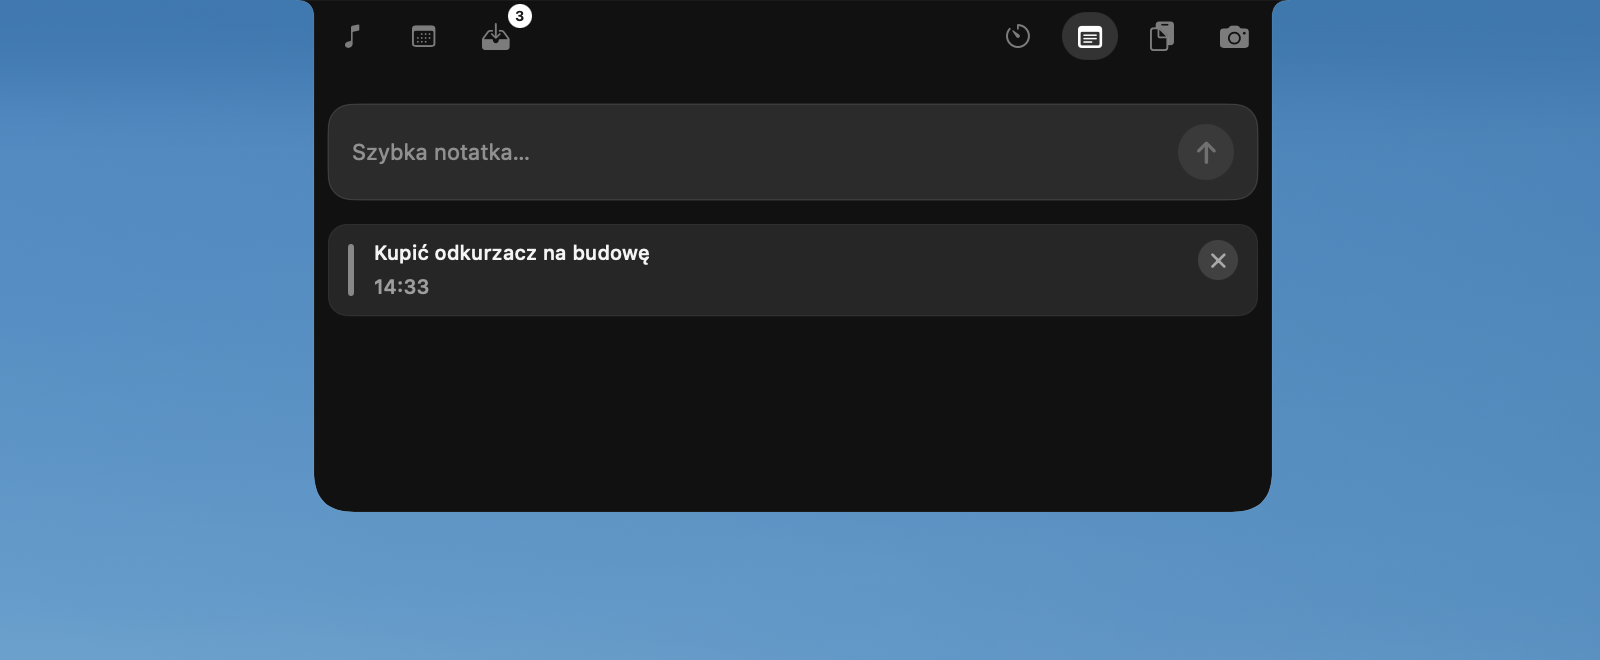
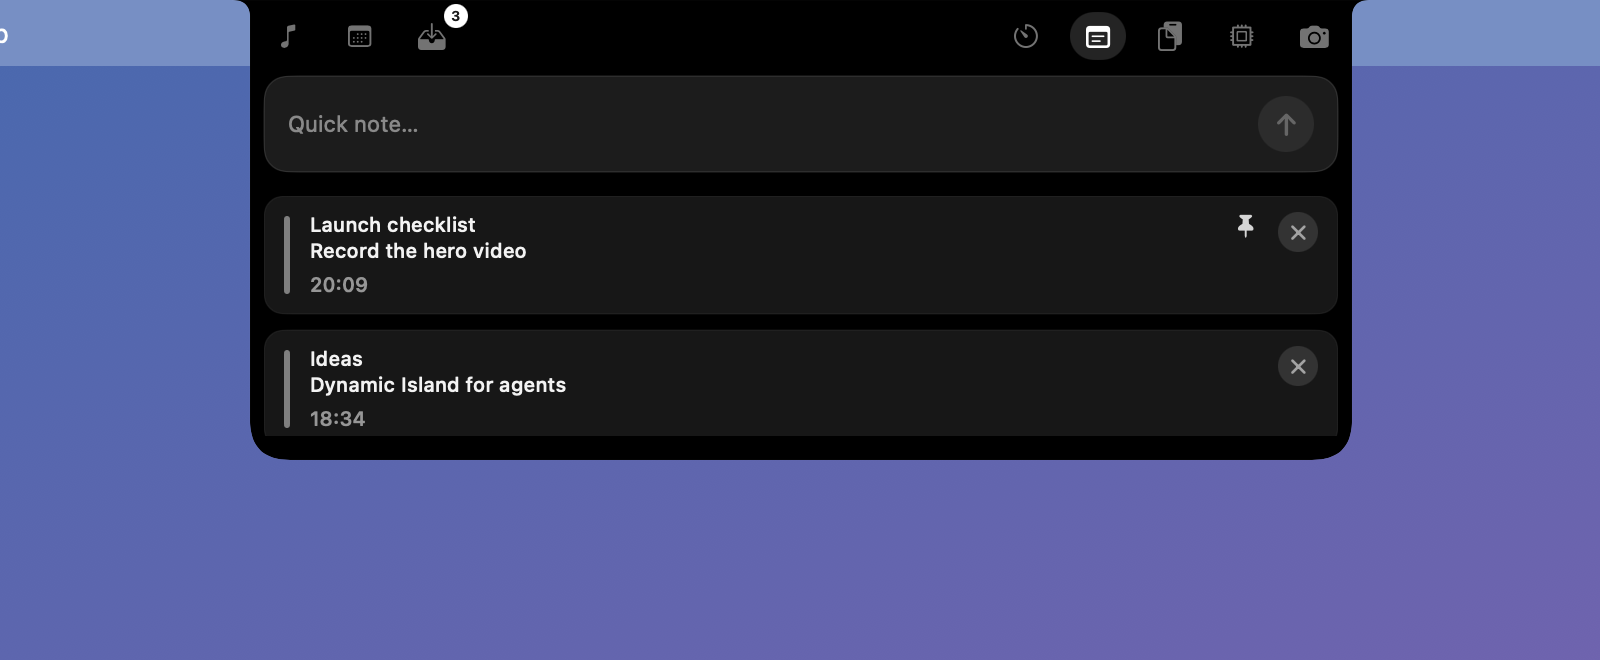
Show demo screenshots in each page's language and add Homebrew install.
The gallery used Polish screenshots on the English page and showed real
tracks, events, notes and clipboard entries. Both pages now use screenshots
of the app's demo mode in their own language, and the Mirror slide (which
would show a real camera) is replaced by the Agents usage view. Homebrew
install via the Tymcio/homebrew-tap tap is listed next to the download and
in the README; the cask passes brew audit.

diff --git a/website/pl/index.html b/website/pl/index.html
@@ -18,7 +18,7 @@
   <meta property="og:image" content="https://notchflow.eu/assets/og-image.png" />
   <meta name="twitter:card" content="summary_large_image" />
   <link rel="preload" as="image" href="../assets/hero-macbook.png" />
-  <link rel="stylesheet" href="../styles.css?v=20261110-video" />
+  <link rel="stylesheet" href="../styles.css?v=20261110-hud" />
   <script src="../consent-init.js?v=20261023-redesign"></script>
   <script src="../analytics-config.js?v=20261023-redesign"></script>
   <script src="../theme-init.js?v=20261023-redesign"></script>
@@ -284,7 +284,7 @@
             </ul>
           </div>
           <figure class="media-frame">
-            <img src="../assets/screenshots/01-music.png" width="1600" height="660" alt="Sterowanie muzyką NotchFlow rozwinięte z notcha MacBooka" loading="lazy" decoding="async" />
+            <img src="../assets/screenshots/pl/01-music.png" width="1600" height="660" alt="Sterowanie muzyką NotchFlow rozwinięte z notcha MacBooka" loading="lazy" decoding="async" />
           </figure>
         </article>
 
@@ -299,7 +299,7 @@
             </ul>
           </div>
           <figure class="media-frame">
-            <img src="../assets/screenshots/03-shelf.png" width="1600" height="660" alt="Półka plików NotchFlow z przypiętymi elementami w notchu" loading="lazy" decoding="async" />
+            <img src="../assets/screenshots/pl/03-shelf.png" width="1600" height="660" alt="Półka plików NotchFlow z przypiętymi elementami w notchu" loading="lazy" decoding="async" />
           </figure>
         </article>
 
@@ -319,60 +319,60 @@
               <p class="shot-index">01</p>
               <h3>Muzyka</h3>
               <p>Okładka, postęp i sterowanie odtwarzaniem mieszczą się w wyspie.</p>
-              <img class="shot-photo" src="../assets/screenshots/01-music.png" width="1600" height="660" alt="Moduł muzyki w NotchFlow" loading="lazy" decoding="async" />
+              <img class="shot-photo" src="../assets/screenshots/pl/01-music.png" width="1600" height="660" alt="Moduł muzyki w NotchFlow" loading="lazy" decoding="async" />
             </article>
             <article class="shot" data-shot="calendar">
               <p class="shot-index">02</p>
               <h3>Kalendarz</h3>
               <p>Siatka miesiąca i najbliższe wydarzenia, bez otwierania Kalendarza.</p>
-              <img class="shot-photo" src="../assets/screenshots/02-calendar.png" width="1600" height="660" alt="Moduł kalendarza w NotchFlow" loading="lazy" decoding="async" />
+              <img class="shot-photo" src="../assets/screenshots/pl/02-calendar.png" width="1600" height="660" alt="Moduł kalendarza w NotchFlow" loading="lazy" decoding="async" />
             </article>
             <article class="shot" data-shot="shelf">
               <p class="shot-index">03</p>
               <h3>Półka</h3>
               <p>Przypięte pliki i miejsce na tymczasowy zrzut. Premium dodaje więcej miejsca i pakowanie ZIP.</p>
-              <img class="shot-photo" src="../assets/screenshots/03-shelf.png" width="1600" height="660" alt="Moduł półki plików w NotchFlow" loading="lazy" decoding="async" />
+              <img class="shot-photo" src="../assets/screenshots/pl/03-shelf.png" width="1600" height="660" alt="Moduł półki plików w NotchFlow" loading="lazy" decoding="async" />
             </article>
             <article class="shot" data-shot="timer">
               <p class="shot-index">04</p>
               <h3>Minutnik</h3>
               <p>Odliczanie, które może zostać widoczne, gdy wyspa jest zwinięta.</p>
-              <img class="shot-photo" src="../assets/screenshots/04-timer.png" width="1600" height="660" alt="Minutnik w NotchFlow" loading="lazy" decoding="async" />
+              <img class="shot-photo" src="../assets/screenshots/pl/04-timer.png" width="1600" height="660" alt="Minutnik w NotchFlow" loading="lazy" decoding="async" />
             </article>
             <article class="shot" data-shot="stopwatch">
               <p class="shot-index">05</p>
               <h3>Stoper</h3>
               <p>Start, okrążenie i stop w tym samym module skupienia.</p>
-              <img class="shot-photo" src="../assets/screenshots/05-stopwatch.png" width="1600" height="660" alt="Stoper w NotchFlow" loading="lazy" decoding="async" />
+              <img class="shot-photo" src="../assets/screenshots/pl/05-stopwatch.png" width="1600" height="660" alt="Stoper w NotchFlow" loading="lazy" decoding="async" />
             </article>
             <article class="shot" data-shot="pomodoro">
               <p class="shot-index">06 · Premium</p>
               <h3>Pomodoro</h3>
               <p>Łączone sesje skupienia. Są w Premium, nie w darmowej wersji.</p>
-              <img class="shot-photo" src="../assets/screenshots/06-pomodoro.png" width="1600" height="660" alt="Sesja Pomodoro w NotchFlow" loading="lazy" decoding="async" />
+              <img class="shot-photo" src="../assets/screenshots/pl/06-pomodoro.png" width="1600" height="660" alt="Sesja Pomodoro w NotchFlow" loading="lazy" decoding="async" />
             </article>
             <article class="shot" data-shot="notes">
               <p class="shot-index">07</p>
               <h3>Notatki</h3>
               <p>Pięć notatek za darmo. Premium zdejmuje limit i dodaje przypinanie.</p>
-              <img class="shot-photo" src="../assets/screenshots/07-notes.png" width="1600" height="660" alt="Szybkie notatki w NotchFlow" loading="lazy" decoding="async" />
+              <img class="shot-photo" src="../assets/screenshots/pl/07-notes.png" width="1600" height="660" alt="Szybkie notatki w NotchFlow" loading="lazy" decoding="async" />
             </article>
             <article class="shot" data-shot="clipboard">
               <p class="shot-index">08</p>
               <h3>Schowek</h3>
               <p>Historia włączana świadomie. Pięć wpisów za darmo, pięćdziesiąt z wyszukiwaniem w Premium.</p>
-              <img class="shot-photo" src="../assets/screenshots/08-clipboard.png" width="1600" height="660" alt="Historia schowka w NotchFlow" loading="lazy" decoding="async" />
+              <img class="shot-photo" src="../assets/screenshots/pl/08-clipboard.png" width="1600" height="660" alt="Historia schowka w NotchFlow" loading="lazy" decoding="async" />
             </article>
-            <article class="shot" data-shot="camera">
-              <p class="shot-index">09 · Premium</p>
-              <h3>Lustro</h3>
-              <p>Podgląd kamery na żywo w notchu. Tylko Premium.</p>
-              <img class="shot-photo" src="../assets/screenshots/09-camera.png" width="1600" height="660" alt="Podgląd lustra kamery w NotchFlow" loading="lazy" decoding="async" />
+            <article class="shot" data-shot="agents">
+              <p class="shot-index">09 · Dodatek Agents</p>
+              <h3>Agenci</h3>
+              <p>Pozostałe limity 5-godzinne i tygodniowe Claude, Codexa i Cursora oraz to, które sesje pracują.</p>
+              <img class="shot-photo" src="../assets/screenshots/pl/09-agents.png" width="1600" height="660" alt="Limity Claude, Codexa i Cursora w karcie Agents NotchFlow" loading="lazy" decoding="async" />
             </article>
           </div>
           <div class="showcase-visual">
             <div class="showcase-frame">
-              <img data-showcase-front class="is-visible" src="../assets/screenshots/01-music.png" alt="Moduł muzyki w NotchFlow" width="1600" height="660" />
+              <img data-showcase-front class="is-visible" src="../assets/screenshots/pl/01-music.png" alt="Moduł muzyki w NotchFlow" width="1600" height="660" />
               <img data-showcase-back alt="" width="1600" height="660" />
             </div>
           </div>
@@ -524,6 +524,7 @@
           <a class="btn btn-primary btn-lg" href="https://github.com/Tymcio/notchflow/releases/latest">Pobierz NotchFlow za darmo</a>
           <a class="btn btn-ghost btn-lg" href="pricing/">Zobacz cennik</a>
         </div>
+        <p class="fineprint">Homebrew: <code>brew tap tymcio/tap &amp;&amp; brew trust --cask tymcio/tap/notchflow &amp;&amp; brew install --cask notchflow</code></p>
         <p class="fineprint">macOS 14 lub nowszy · Podpisana i notaryzowana · <code>spctl -a -vv /Applications/NotchFlow.app</code></p>
       </div>
     </section>

diff --git a/website/index.html b/website/index.html
@@ -18,7 +18,7 @@
   <meta property="og:image" content="https://notchflow.eu/assets/og-image.png" />
   <meta name="twitter:card" content="summary_large_image" />
   <link rel="preload" as="image" href="assets/hero-macbook.png" />
-  <link rel="stylesheet" href="styles.css?v=20261110-video" />
+  <link rel="stylesheet" href="styles.css?v=20261110-hud" />
   <script src="consent-init.js?v=20261023-redesign"></script>
   <script src="analytics-config.js?v=20261023-redesign"></script>
   <script src="theme-init.js?v=20261023-redesign"></script>
@@ -363,11 +363,11 @@
               <p>Opt-in history. Five entries free, fifty with search on Premium.</p>
               <img class="shot-photo" src="assets/screenshots/08-clipboard.png" width="1600" height="660" alt="Clipboard history in NotchFlow" loading="lazy" decoding="async" />
             </article>
-            <article class="shot" data-shot="camera">
-              <p class="shot-index">09 · Premium</p>
-              <h3>Mirror</h3>
-              <p>A live camera preview in the notch. Premium only.</p>
-              <img class="shot-photo" src="assets/screenshots/09-camera.png" width="1600" height="660" alt="Camera mirror preview in NotchFlow" loading="lazy" decoding="async" />
+            <article class="shot" data-shot="agents">
+              <p class="shot-index">09 · Agents add-on</p>
+              <h3>Agents</h3>
+              <p>Remaining 5-hour and weekly limits for Claude, Codex and Cursor, and which sessions are running.</p>
+              <img class="shot-photo" src="assets/screenshots/09-agents.png" width="1600" height="660" alt="Usage limits for Claude, Codex and Cursor in the NotchFlow Agents tab" loading="lazy" decoding="async" />
             </article>
           </div>
           <div class="showcase-visual">
@@ -524,6 +524,7 @@
           <a class="btn btn-primary btn-lg" href="https://github.com/Tymcio/notchflow/releases/latest">Download NotchFlow free</a>
           <a class="btn btn-ghost btn-lg" href="pricing/">See pricing</a>
         </div>
+        <p class="fineprint">Homebrew: <code>brew tap tymcio/tap &amp;&amp; brew trust --cask tymcio/tap/notchflow &amp;&amp; brew install --cask notchflow</code></p>
         <p class="fineprint">macOS 14 or later · Signed and notarized · <code>spctl -a -vv /Applications/NotchFlow.app</code></p>
       </div>
     </section>

diff --git a/website/styles.css b/website/styles.css
@@ -1366,3 +1366,9 @@ html.js [data-reveal].is-visible {
   html.js [data-reveal],
   html.js .shot { opacity: 1; transform: none; }
 }
+
+/* Long install commands wrap instead of widening the page on phones. */
+.fineprint code {
+  overflow-wrap: anywhere;
+  word-break: break-word;
+}

diff --git a/packaging/homebrew/Casks/notchflow.rb b/packaging/homebrew/Casks/notchflow.rb
@@ -2,13 +2,11 @@ cask "notchflow" do
   version :latest
   sha256 :no_check
 
-  url "https://github.com/Tymcio/notchflow/releases/latest/download/NotchFlow.dmg",
-      verified: "github.com/Tymcio/notchflow/"
+  url "https://github.com/Tymcio/notchflow/releases/latest/download/NotchFlow.dmg"
   name "NotchFlow"
   desc "Coding agents, music, files and timers in an island at the top of the screen"
   homepage "https://notchflow.eu/"
 
-  auto_updates true
   depends_on arch: :arm64
   depends_on macos: :sonoma
 

diff --git a/docs/launch/plan.md b/docs/launch/plan.md
@@ -8,7 +8,7 @@ Cel: pierwsze 1 000 instalacji i 30–50 płacących klientów w 6 tygodni, z mi
 - [ ] Wydanie z obsługą Maców bez notcha (rozszerza rynek o Mac mini, Studio, iMaca, MacBooka Neo i MacBooka Pro z Dynamic Island).
 - [ ] **Wideo 20–30 s** (scenariusz niżej) jako `website/assets/hero.mp4`, GIF do README i wszystkich postów.
 - [ ] Screenshot karty Agents (zatwierdzanie i limity) do galerii na stronie i do Product Hunt.
-- [ ] Homebrew tap (`packaging/homebrew/README.md`) i linia `brew install --cask tymcio/tap/notchflow` obok przycisku pobierania.
+- [ ] Homebrew tap (`packaging/homebrew/README.md`) i linia `brew tap tymcio/tap && brew trust --cask tymcio/tap/notchflow && brew install --cask notchflow` obok przycisku pobierania.
 - [ ] UTM-y w linkach z każdego kanału (`?utm_source=reddit&utm_campaign=launch`), żeby w GA i Polar było widać, skąd przyszli klienci.
 - [ ] Kod `LAUNCH30` w Polar.
 
@@ -38,7 +38,7 @@ Stałe kanały w tle: Homebrew tap, rozszerzenie Raycast w Raycast Store (darmow
 2. (4–9 s) Notch pulsuje. Kursor najeżdża, wyspa rozwija się z prośbą „Bash: npm test”. Klik **Allow**.
 3. (9–14 s) Wyspa pokazuje „Running”, potem limity: Claude 5h 62% left, weekly 80% left; Cursor included usage.
 4. (14–20 s) Szybkie przełączenie kart: muzyka, półka (przeciągnięcie pliku), minutnik.
-5. (20–25 s) Logo + „Free on notchflow.eu · brew install --cask tymcio/tap/notchflow”.
+5. (20–25 s) Logo + „Free on notchflow.eu · Homebrew: tymcio/tap”.
 
 Nagrywaj w 2× (Retina), eksport 1920×1080 MP4 H.264 < 4 MB na stronę i GIF < 8 MB do README.
 

diff --git a/packaging/homebrew/README.md b/packaging/homebrew/README.md
@@ -4,18 +4,19 @@
 repository only accepts self-submitted apps with at least 75 GitHub stars, 30 forks
 or 30 watchers, so NotchFlow starts in its own tap.
 
-## Publish the tap (one time)
+## The tap
 
-1. Create a public GitHub repository named `homebrew-tap` under the same account.
-2. Copy `Casks/notchflow.rb` into it as `Casks/notchflow.rb` and push.
-3. Users install with:
+Published at [Tymcio/homebrew-tap](https://github.com/Tymcio/homebrew-tap). Keep `Casks/notchflow.rb`
+here and there in sync. Users install with:
 
-   ```bash
-   brew install --cask tymcio/tap/notchflow
-   ```
+```bash
+brew tap tymcio/tap
+brew trust --cask tymcio/tap/notchflow   # Homebrew 7 asks once for third-party casks
+brew install --cask notchflow
+```
 
-The cask uses `version :latest` and `auto_updates true`: Sparkle updates the app, so the
-tap does not need a new commit for every release.
+The cask uses `version :latest` (always the latest release download), and Sparkle updates the app,
+so the tap does not need a new commit for every release.
 
 ## Check it locally
 

diff --git a/docs/launch/posts.md b/docs/launch/posts.md
@@ -92,6 +92,6 @@ What's different from Boring Notch, NotchNook, and others:
 - GPL-3.0, signed and notarized, Sparkle updates
 - One-time Pro ({PRICE}), no subscription; the free tier has no time limit
 
-Download: notchflow.eu · Source: github.com/Tymcio/notchflow · Homebrew: `brew install --cask tymcio/tap/notchflow`
+Download: notchflow.eu · Source: github.com/Tymcio/notchflow · Homebrew: `brew tap tymcio/tap && brew trust --cask tymcio/tap/notchflow && brew install --cask notchflow`
 
 Feedback on what's missing is very welcome.

diff --git a/README.md b/README.md
@@ -103,6 +103,7 @@ Details, tier assignment, and non-goals: **[docs/roadmap.md](docs/roadmap.md)**
 Official builds (signed, notarized, with premium activation):
 
 - **[Latest release](https://github.com/Tymcio/notchflow/releases/latest)** — drag `NotchFlow.app` to Applications
+- **Homebrew** — `brew tap tymcio/tap && brew trust --cask tymcio/tap/notchflow && brew install --cask notchflow`
 - **[notchflow.eu](https://notchflow.eu)** — purchase premium license
 
 Verify the signature:
